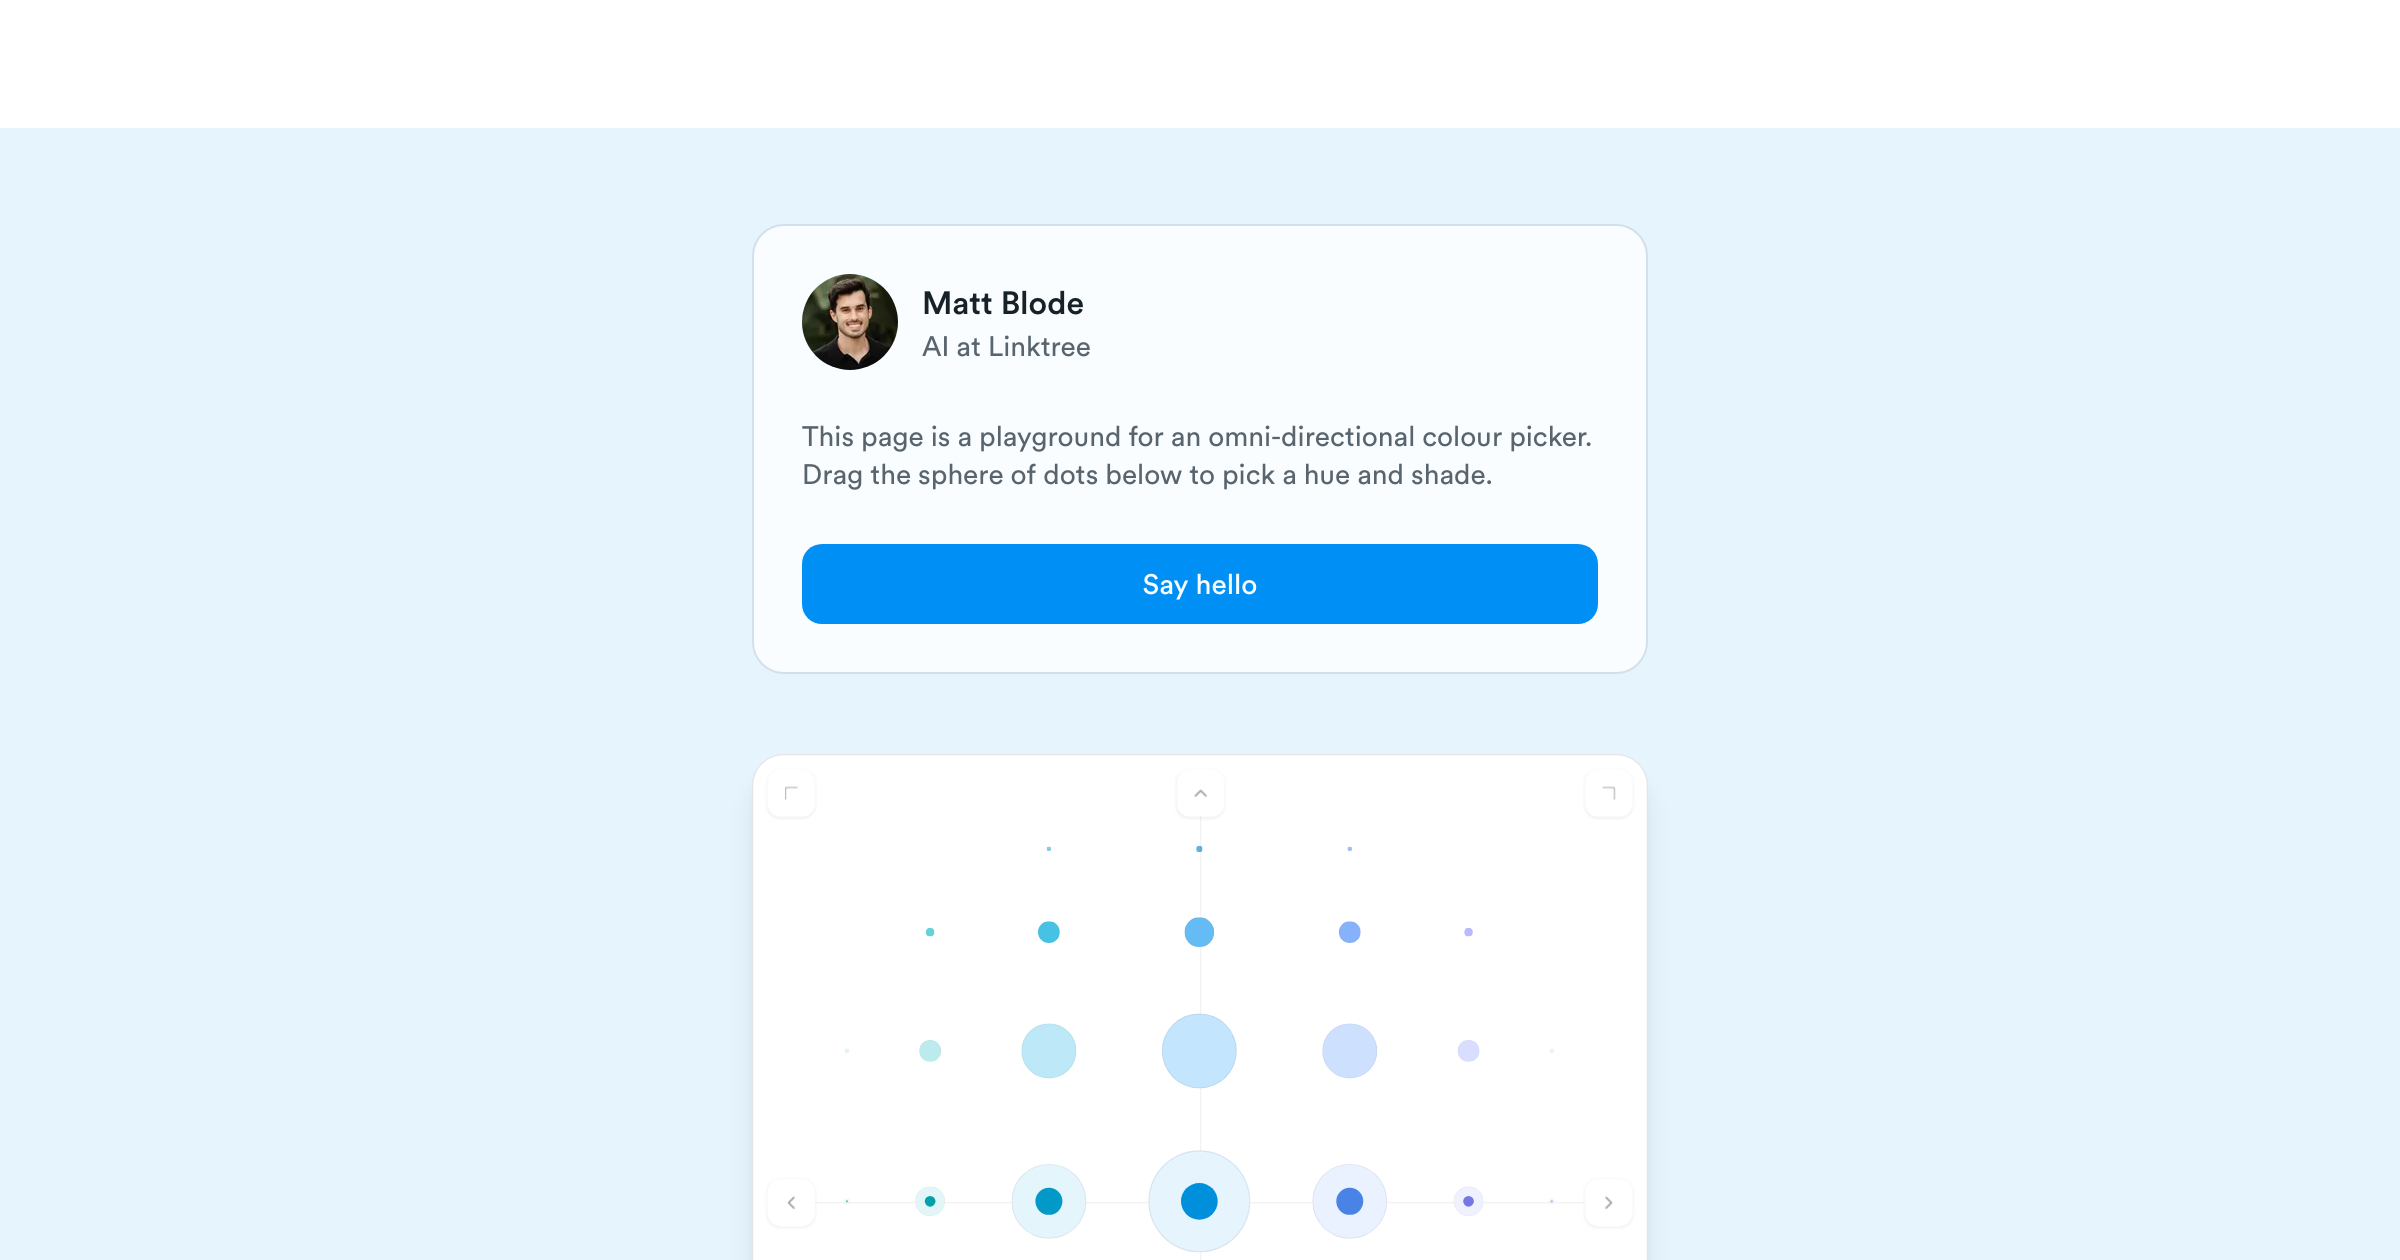
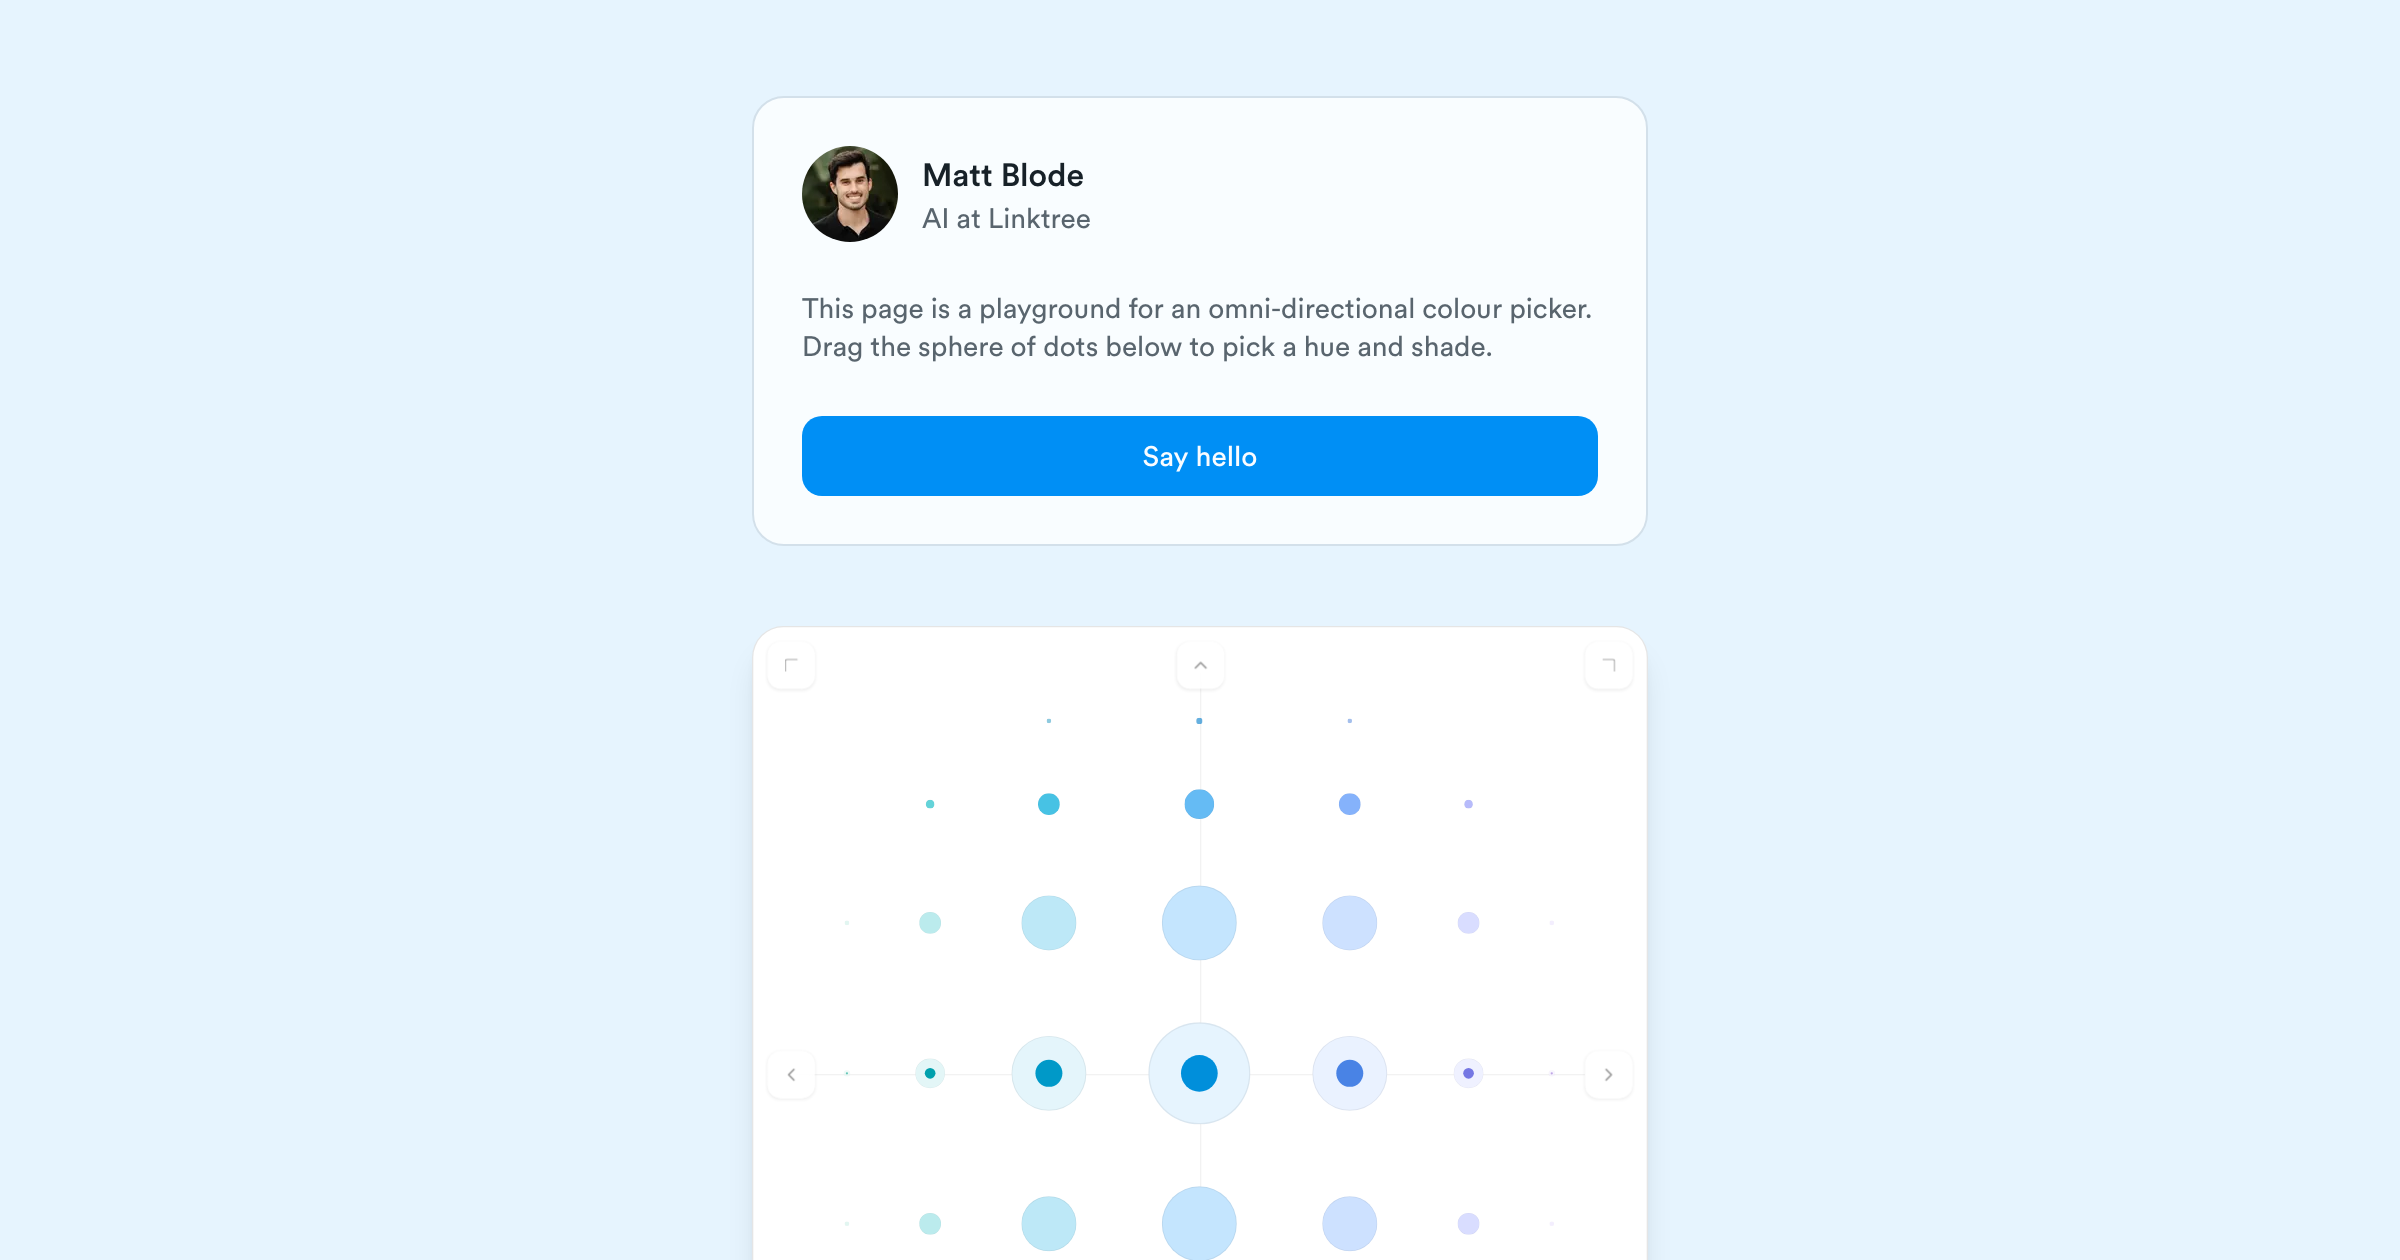
Hide chrome-only header wrapper in OG screenshots
?hideHeader emptied the header but left its wrapper's p-8 padding, which
rendered as a band of page background above the demo on pages where the
demo is a sibling of that wrapper. Mark those wrappers data-chrome and
hide them outright.

diff --git a/app/shuffle-theme/page.tsx b/app/shuffle-theme/page.tsx
@@ -1,5 +1,6 @@
 "use client";
 import { useCallback, useEffect, useState } from "react";
+
 import { ThemeBackground } from "@/components/theme/theme-background";
 import { ThemeFont } from "@/components/theme/theme-font";
 import { ThemeStyle } from "@/components/theme/theme-style";
@@ -7,6 +8,7 @@ import { Button } from "@/components/ui/button";
 import { Header } from "@/components/ui/header";
 import { themes } from "@/lib/themes";
 import type { VenueThemeSchema } from "@/lib/types";
+
 import { CardBlock } from "./card-block";
 
 export default function Page() {
@@ -32,7 +34,7 @@ export default function Page() {
 
   return (
     <>
-      <div className="bg-background p-8">
+      <div className="bg-background p-8" data-chrome>
         <div className="mx-auto max-w-4xl">
           <Header id="shuffle-theme" />
           <Button onClick={handleShuffleClick}>Shuffle theme</Button>

diff --git a/app/document-shadow/page.tsx b/app/document-shadow/page.tsx
@@ -1,5 +1,6 @@
 import { Header } from "@/components/ui/header";
 import { getExperimentMetadata } from "@/lib/seo";
+
 import { DocumentShadowBlock } from "./document-shadow-block";
 
 export const metadata = getExperimentMetadata("document-shadow");
@@ -7,7 +8,7 @@ export const metadata = getExperimentMetadata("document-shadow");
 export default function Page() {
   return (
     <>
-      <div className="relative z-[100] bg-background p-8">
+      <div className="relative z-[100] bg-background p-8" data-chrome>
         <div className="mx-auto max-w-4xl">
           <Header id="document-shadow" />
         </div>

diff --git a/app/lighting/page.tsx b/app/lighting/page.tsx
@@ -1,5 +1,6 @@
 import { Header } from "@/components/ui/header";
 import { getExperimentMetadata } from "@/lib/seo";
+
 import { LightingBlock } from "./lighting-block";
 
 export const metadata = getExperimentMetadata("lighting");
@@ -7,7 +8,7 @@ export const metadata = getExperimentMetadata("lighting");
 export default function Page() {
   return (
     <>
-      <div className="relative z-10 bg-background p-8">
+      <div className="relative z-10 bg-background p-8" data-chrome>
         <div className="mx-auto max-w-4xl">
           <Header className="mb-0!" id="lighting" />
         </div>

diff --git a/app/qr-code/page.tsx b/app/qr-code/page.tsx
@@ -1,5 +1,6 @@
 import { Header } from "@/components/ui/header";
 import { getExperimentMetadata } from "@/lib/seo";
+
 import { QRCodeBlock } from "./qr-code-block";
 
 export const metadata = getExperimentMetadata("qr-code");
@@ -7,7 +8,7 @@ export const metadata = getExperimentMetadata("qr-code");
 export default function Page() {
   return (
     <>
-      <div className="bg-background p-8">
+      <div className="bg-background p-8" data-chrome>
         <div className="mx-auto max-w-4xl">
           <Header className="mb-4" id="qr-code" />
           <a

diff --git a/components/ui/header.tsx b/components/ui/header.tsx
@@ -21,8 +21,9 @@ export const Header = ({ id, className }: Props) => {
   }, []);
 
   if (hidden) {
-    // Also drop attribution/reference links so only the demo remains
-    return <style>{".link{display:none!important}"}</style>;
+    // Also drop attribution links and any chrome-only wrapper — an emptied
+    // wrapper still renders its padding as a band above the demo.
+    return <style>{".link,[data-chrome]{display:none!important}"}</style>;
   }
 
   return (

diff --git a/app/omni-color-picker/page.tsx b/app/omni-color-picker/page.tsx
@@ -8,7 +8,7 @@ export const metadata = getExperimentMetadata("omni-color-picker");
 export default function Page() {
   return (
     <>
-      <div className="bg-background p-8">
+      <div className="bg-background p-8" data-chrome>
         <div className="mx-auto max-w-4xl">
           <Header id="omni-color-picker" />
           <a
